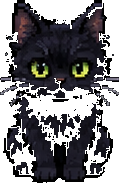
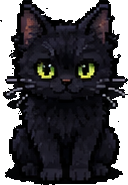
Fix Arbiter losing his body to transparency
The black cat sits on a near-black background, so the flood-fill knockout
(tol 10) ate through his dark fur. Re-extract at tolerance 2 so only true
background pixels are removed. Bump ART_V to 14.

https://claude.ai/code/session_01F9cFHYjHomS4jXu2F4ajBs

diff --git a/index.html b/index.html
@@ -5,7 +5,7 @@
   <meta name="viewport" content="width=device-width, initial-scale=1.0, maximum-scale=1.0, user-scalable=no">
   <title>Lukeymon</title>
   <link href="https://fonts.googleapis.com/css2?family=Press+Start+2P&display=swap" rel="stylesheet">
-  <link rel="stylesheet" href="style.css?v=3.5.1">
+  <link rel="stylesheet" href="style.css?v=3.5.2">
 </head>
 <body>
 
@@ -29,7 +29,7 @@
           <p class="title-tagline">Catch ʼem with kindness!</p>
           <div class="title-scene">
             <span class="title-ground"></span>
-            <img class="title-hero" src="art/player/side.png?v=3.5.1" alt="">
+            <img class="title-hero" src="art/player/side.png?v=3.5.2" alt="">
             <img class="title-pika" src="sprites/025.png" alt="">
             <span class="title-spark sp1">⚡</span>
             <span class="title-spark sp2">⚡</span>
@@ -422,12 +422,12 @@
   </div><!-- /device -->
   <div id="version-bar">
     <button id="hard-refresh" title="Hard refresh — force reload the latest version">⟳</button>
-    <span id="version">v3.5.1</span>
+    <span id="version">v3.5.2</span>
   </div>
 
-  <script src="world.js?v=3.5.1"></script>
-  <script src="data.js?v=3.5.1"></script>
-  <script src="game.js?v=3.5.1"></script>
-  <script src="net.js?v=3.5.1"></script>
+  <script src="world.js?v=3.5.2"></script>
+  <script src="data.js?v=3.5.2"></script>
+  <script src="game.js?v=3.5.2"></script>
+  <script src="net.js?v=3.5.2"></script>
 </body>
 </html>

diff --git a/game.js b/game.js
@@ -850,7 +850,7 @@ function buildTileCache() {
 }
 
 // ── Sliced biome art (per-zone tiles, trees, shop building) ──────────
-const ART_V = '13';   // bump to bust the image cache when art files change
+const ART_V = '14';   // bump to bust the image cache when art files change
 const TILE_ART = {
   0: { 0: 3, 1: 3, 3: 3 }, 1: { 1: 3, 3: 3, 4: 3 }, 2: { 1: 3, 5: 3 },
   3: { 0: 3, 1: 3, 3: 3 }, 4: { 0: 3, 1: 3, 7: 3 }, 5: { 0: 3, 1: 3, 11: 1 },
